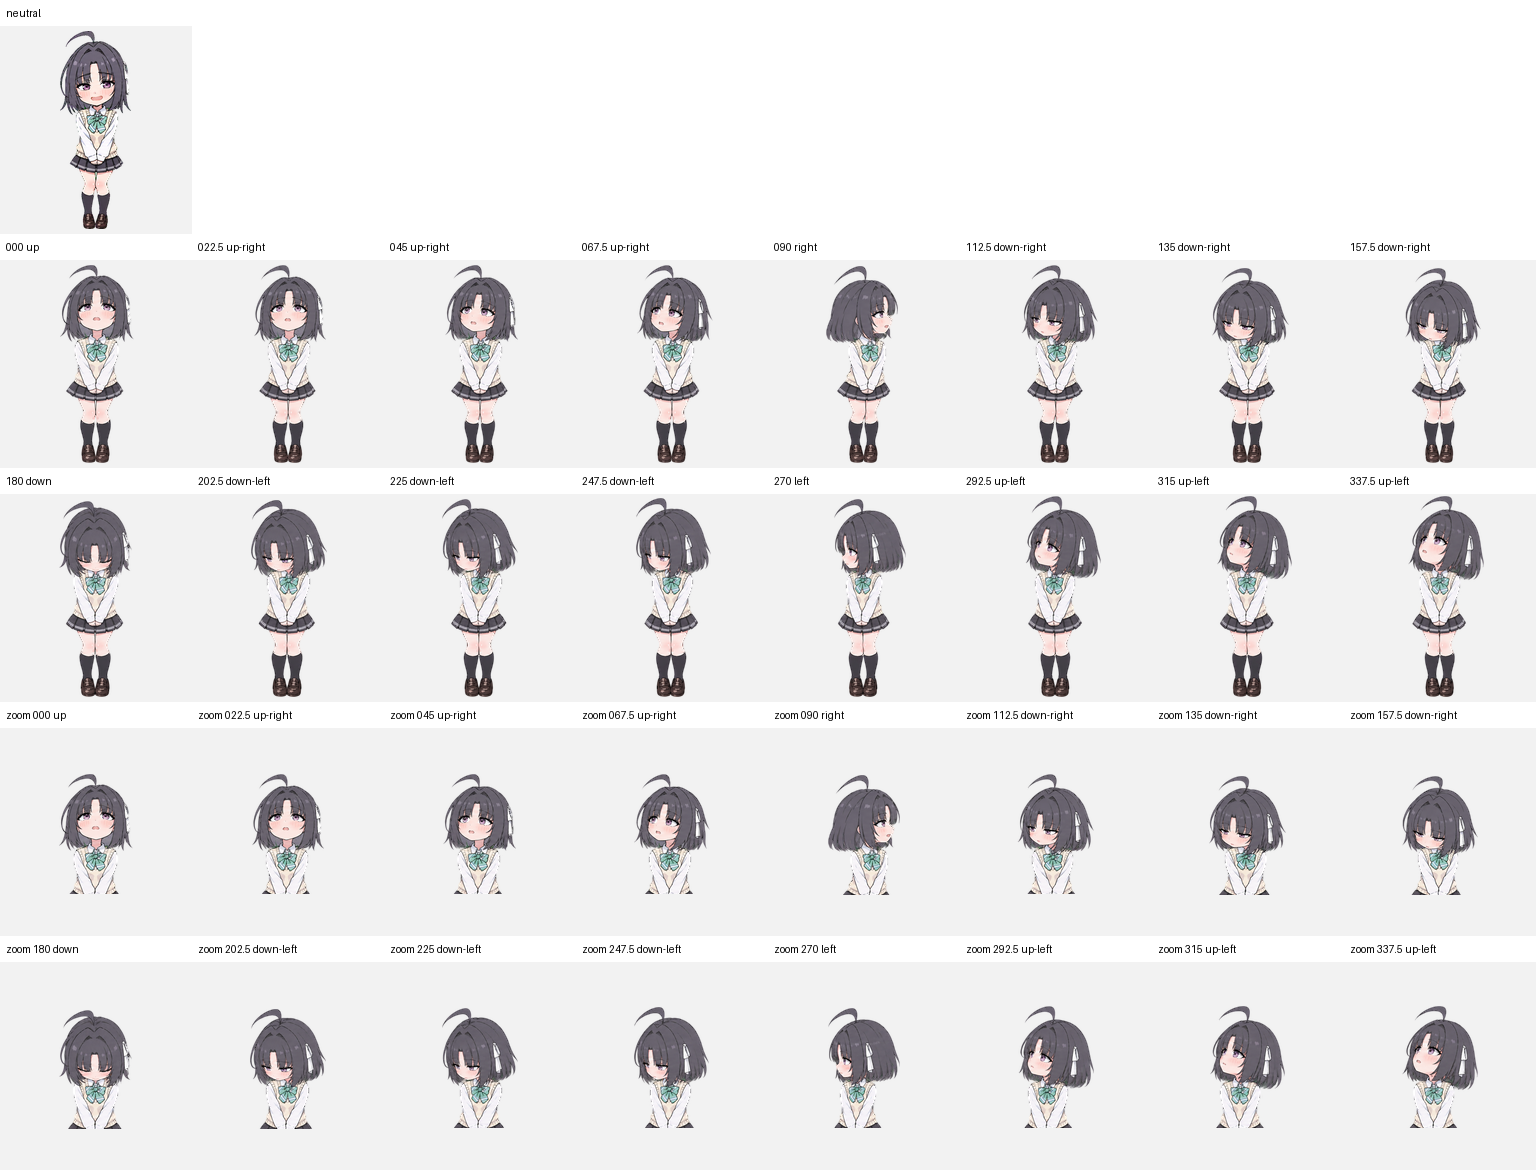
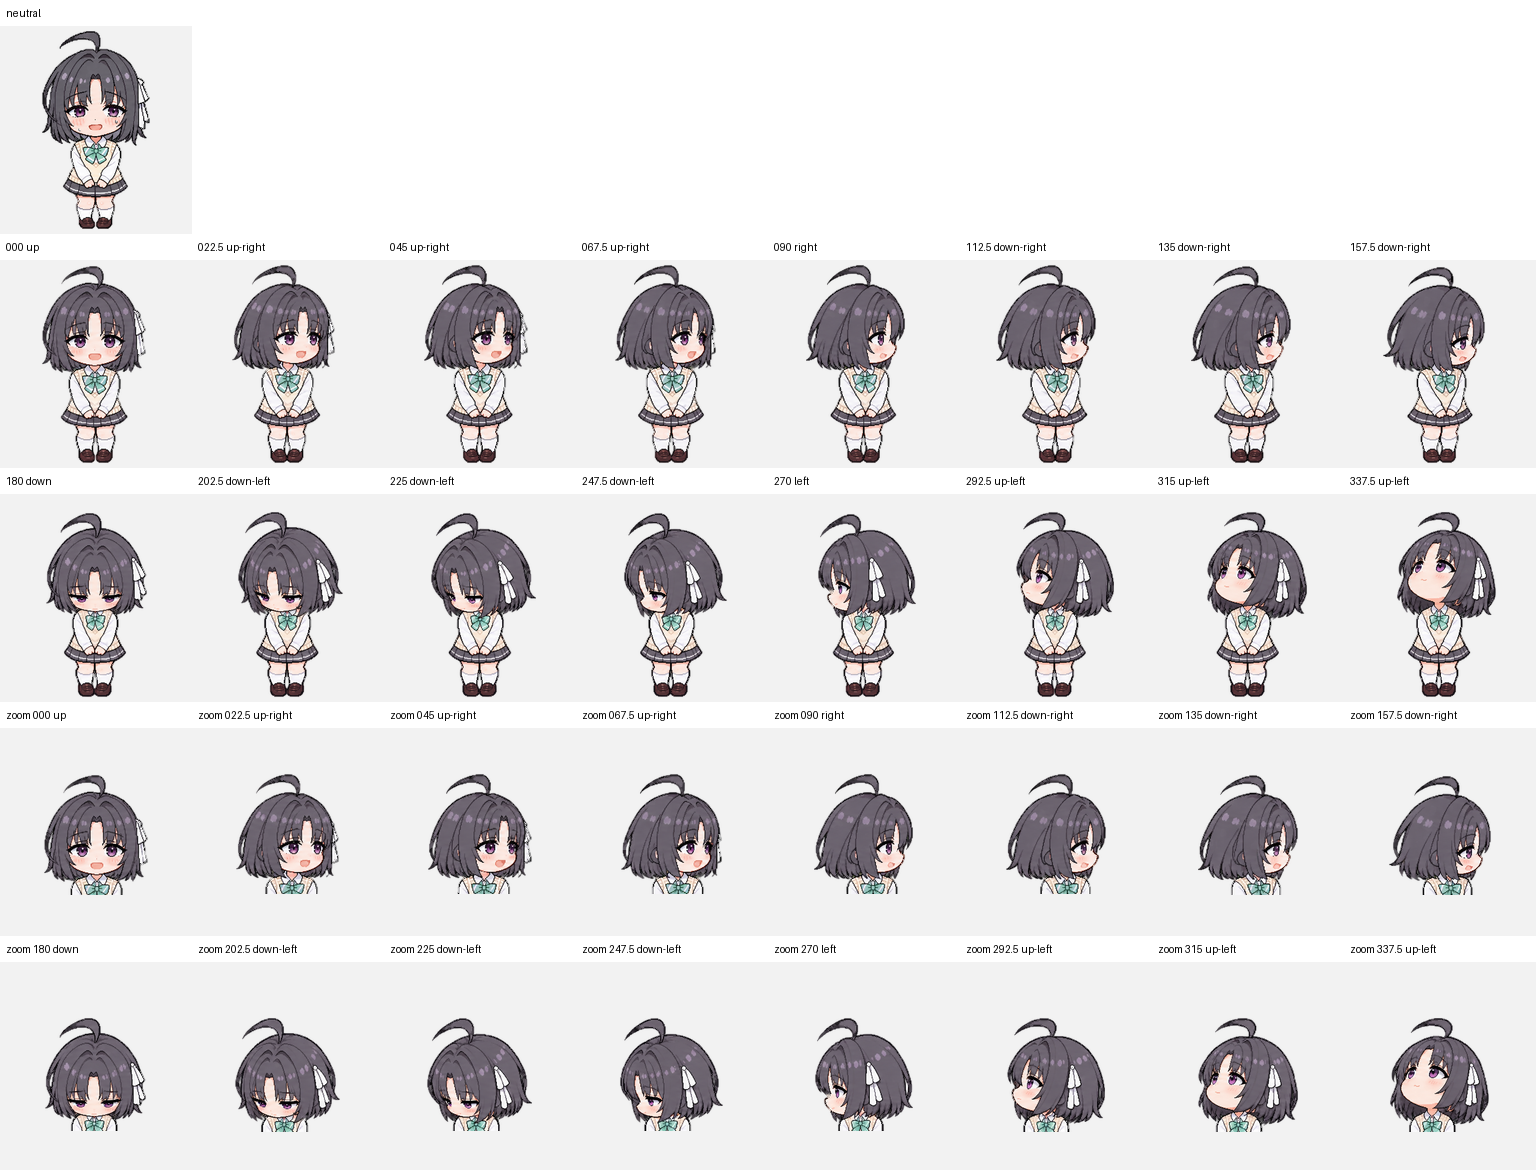
feat: remake pets in pixel art

diff --git a/README.md b/README.md
@@ -1,10 +1,10 @@
 # My Codex Pets
 
-Two Codex-compatible animated pets, drawn as Japanese anime-style chibi stickers and packaged with the v2 pet contract.
+Two Codex-compatible animated pixel-art pets, packaged with the v2 pet contract and designed to feel like quiet desktop companions.
 
 ## 安和昴
 
-A shy, warm-hearted companion with charcoal bobbed hair, violet eyes, and a mint striped bow.
+A shy, warm-hearted school-uniform companion with charcoal bobbed hair, violet eyes, and a mint striped bow. Her ambient animations include drinking coffee, writing in a notebook, and reading a book.
 
 ![安和昴 animation contact sheet](previews/an-he-mao-contact-sheet.png)
 
@@ -12,7 +12,7 @@ A shy, warm-hearted companion with charcoal bobbed hair, violet eyes, and a mint
 
 ## 山田凉
 
-A calm blue-haired companion with glasses and white headphones. Her coffee cup appears only in waiting and active-work animations.
+A calm blue-haired companion with glasses, white headphones, a black T-shirt, and white denim shorts. Her ambient animations include drinking coffee, using a laptop, and drawing with a pen tablet.
 
 ![山田凉 animation contact sheet](previews/yamada-ryo-contact-sheet.png)
 
@@ -24,6 +24,7 @@ A calm blue-haired companion with glasses and white headphones. Her coffee cup a
 - 8 × 11 WebP sprite atlas per pet
 - Nine standard animation rows
 - Sixteen clockwise look directions
+- Purpose-built companion actions for waiting, working, and reviewing
 - Transparent backgrounds and validated cell boundaries
 - Original reference images are not included in this repository
 
